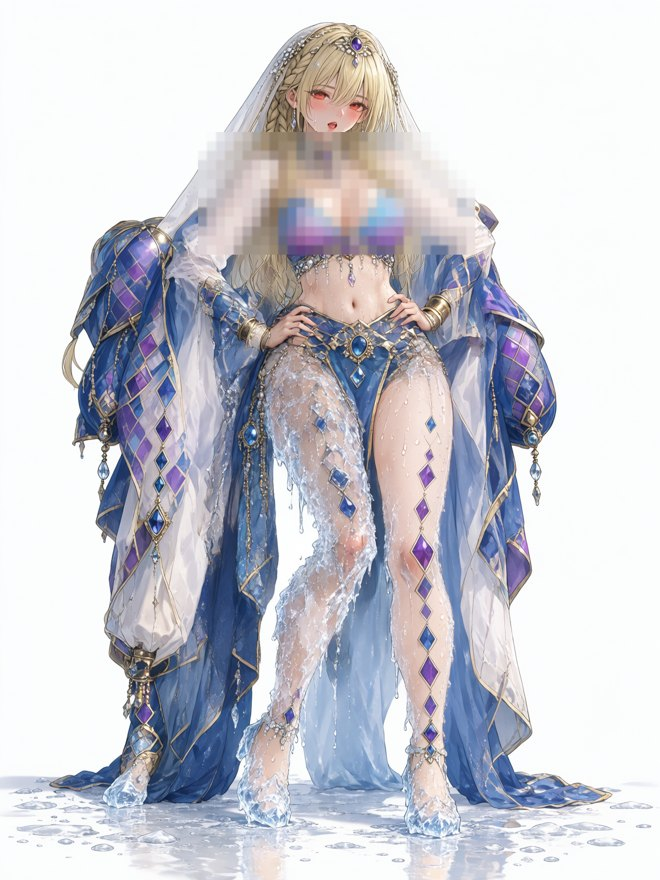
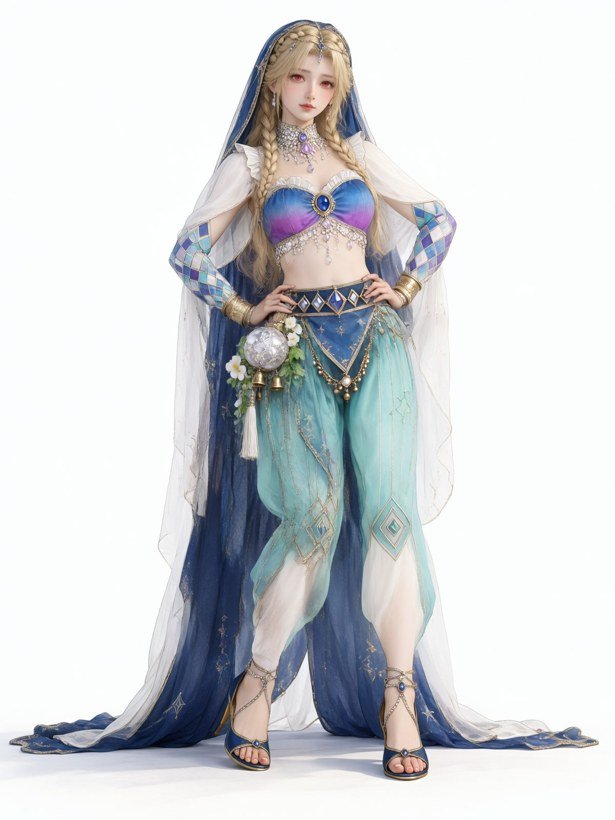
docs: swap the example passes for the cleaner run, drop the mosaic note

diff --git a/README.md b/README.md
@@ -95,7 +95,7 @@ flowchart LR
 
 *Every panel is from one real run.* The same `plan` call does two different jobs here: **②** turns the costume card into named regions (so you can write `ref_tag` per part), **⑤** turns a rendered image into placement regions (so the second pass knows where each `paint_prompt` belongs). Between them, **④** is what the model produces from a reference plus a depth pose with no region map at all — that gap is exactly what **⑤** closes.
 
-*Panels are cropped and the chest area is mosaicked for this document.*
+*Panels ① ② ③ are cropped and downsized; ④ and ⑤ are the run's own output, only resized.*
 
 *Every panel above is from one real run.* The costume card and the pose are the actual inputs: the pose was rendered as a depth map and used as the structural control, the card supplied the look — that produced ③. Then `plan --ref` cut 11 regions out of ③, wrote `cm.png` (④) plus one `paint_prompt` per region (`examples/ice_11.json`), and the second pass refined it into ⑤. Panels are cropped and the chest area is mosaicked for this document.
 

diff --git a/README.zh.md b/README.zh.md
@@ -95,7 +95,7 @@ flowchart LR
 
 *上面每一格都来自同一次真实运行。* 同一个 `plan` 在这里干了两件不同的事：**②** 把服装卡变成有名字的区（好让你逐块写 `ref_tag`），**⑤** 把已渲染的图变成落位区（好让第二程知道每句 `paint_prompt` 属于哪里）。中间那张 **④** 是"只给参考图 + 深度姿势、完全不上色图"的结果 —— ⑤ 补的就是这段差。
 
-*人像做了裁切，胸部打码。*
+*① ② ③ 做过裁切与缩放；④ ⑤ 是这次运行自己的输出，仅缩放。*
 
 *上面每一格都来自同一次真实运行。* 服装卡和姿势就是真实输入：姿势转成深度图当结构控制，服装卡负责外观，两者合成 ③；随后 `plan --ref` 从 ③ 里切出 11 个区，写出 `cm.png`（④）和每区一句 `paint_prompt`（`examples/ice_11.json`），第二程据此精修出 ⑤。为控制篇幅，人像做了裁切，胸部打码。
 
